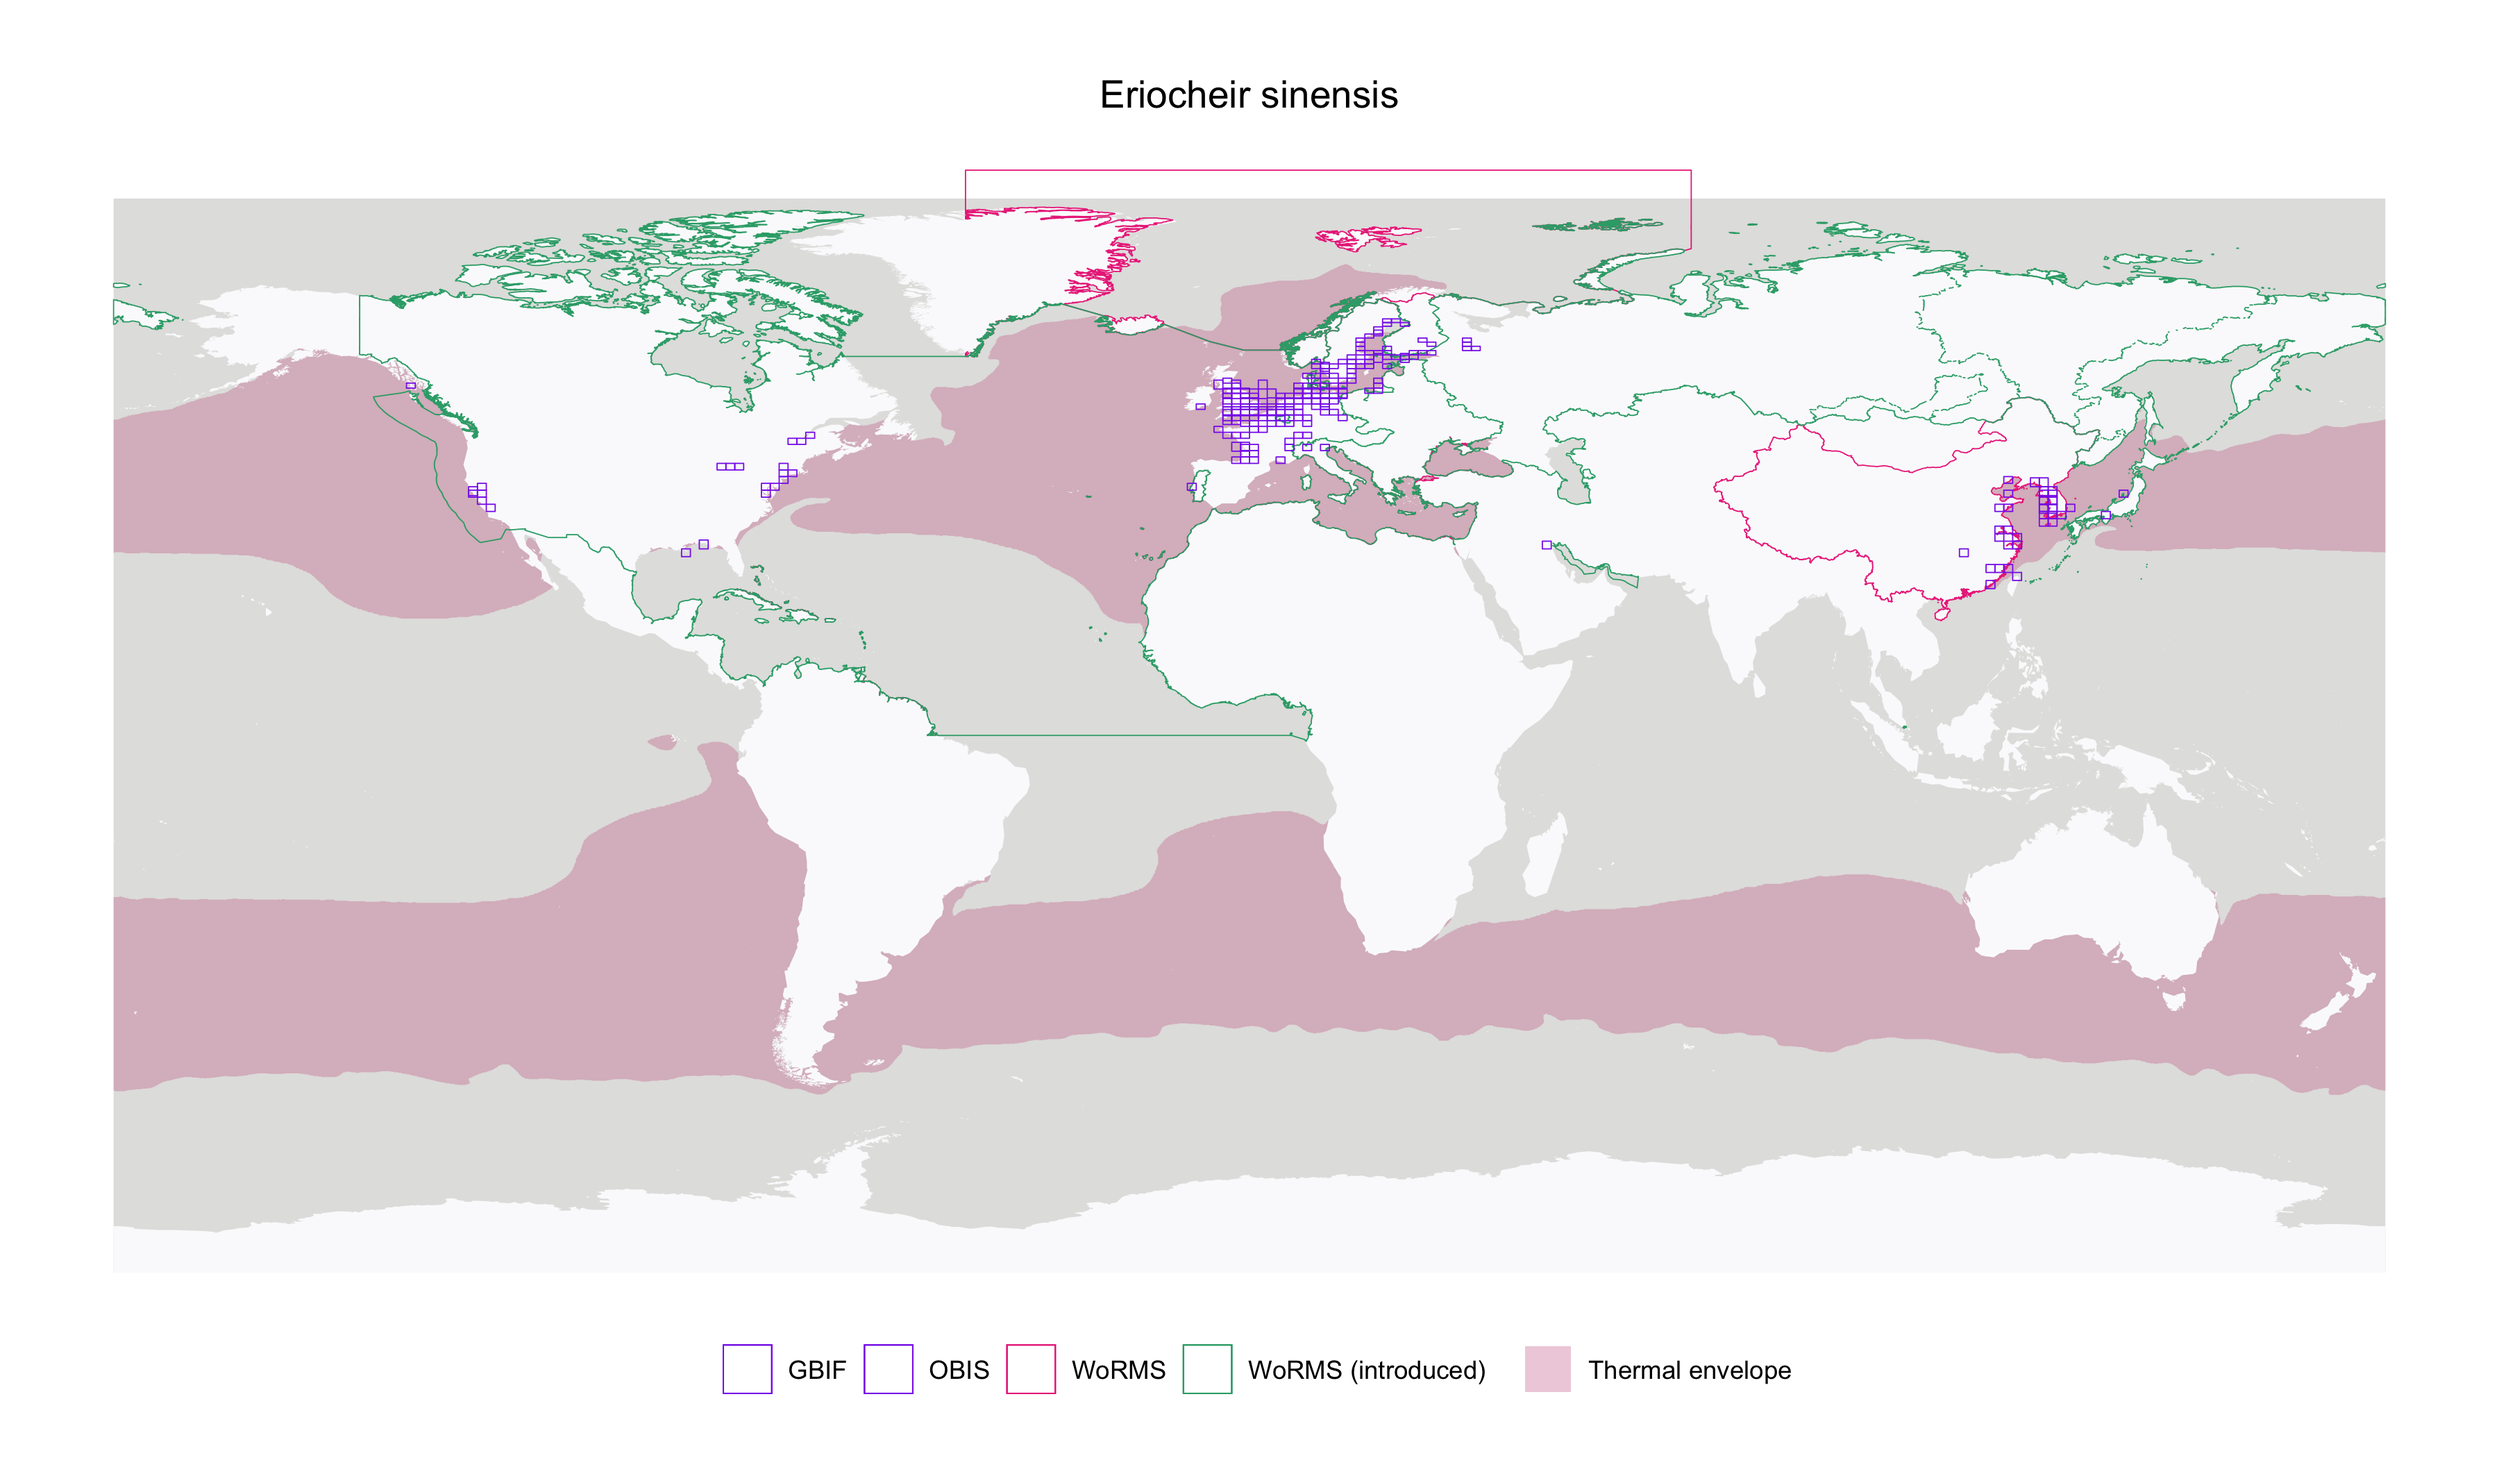
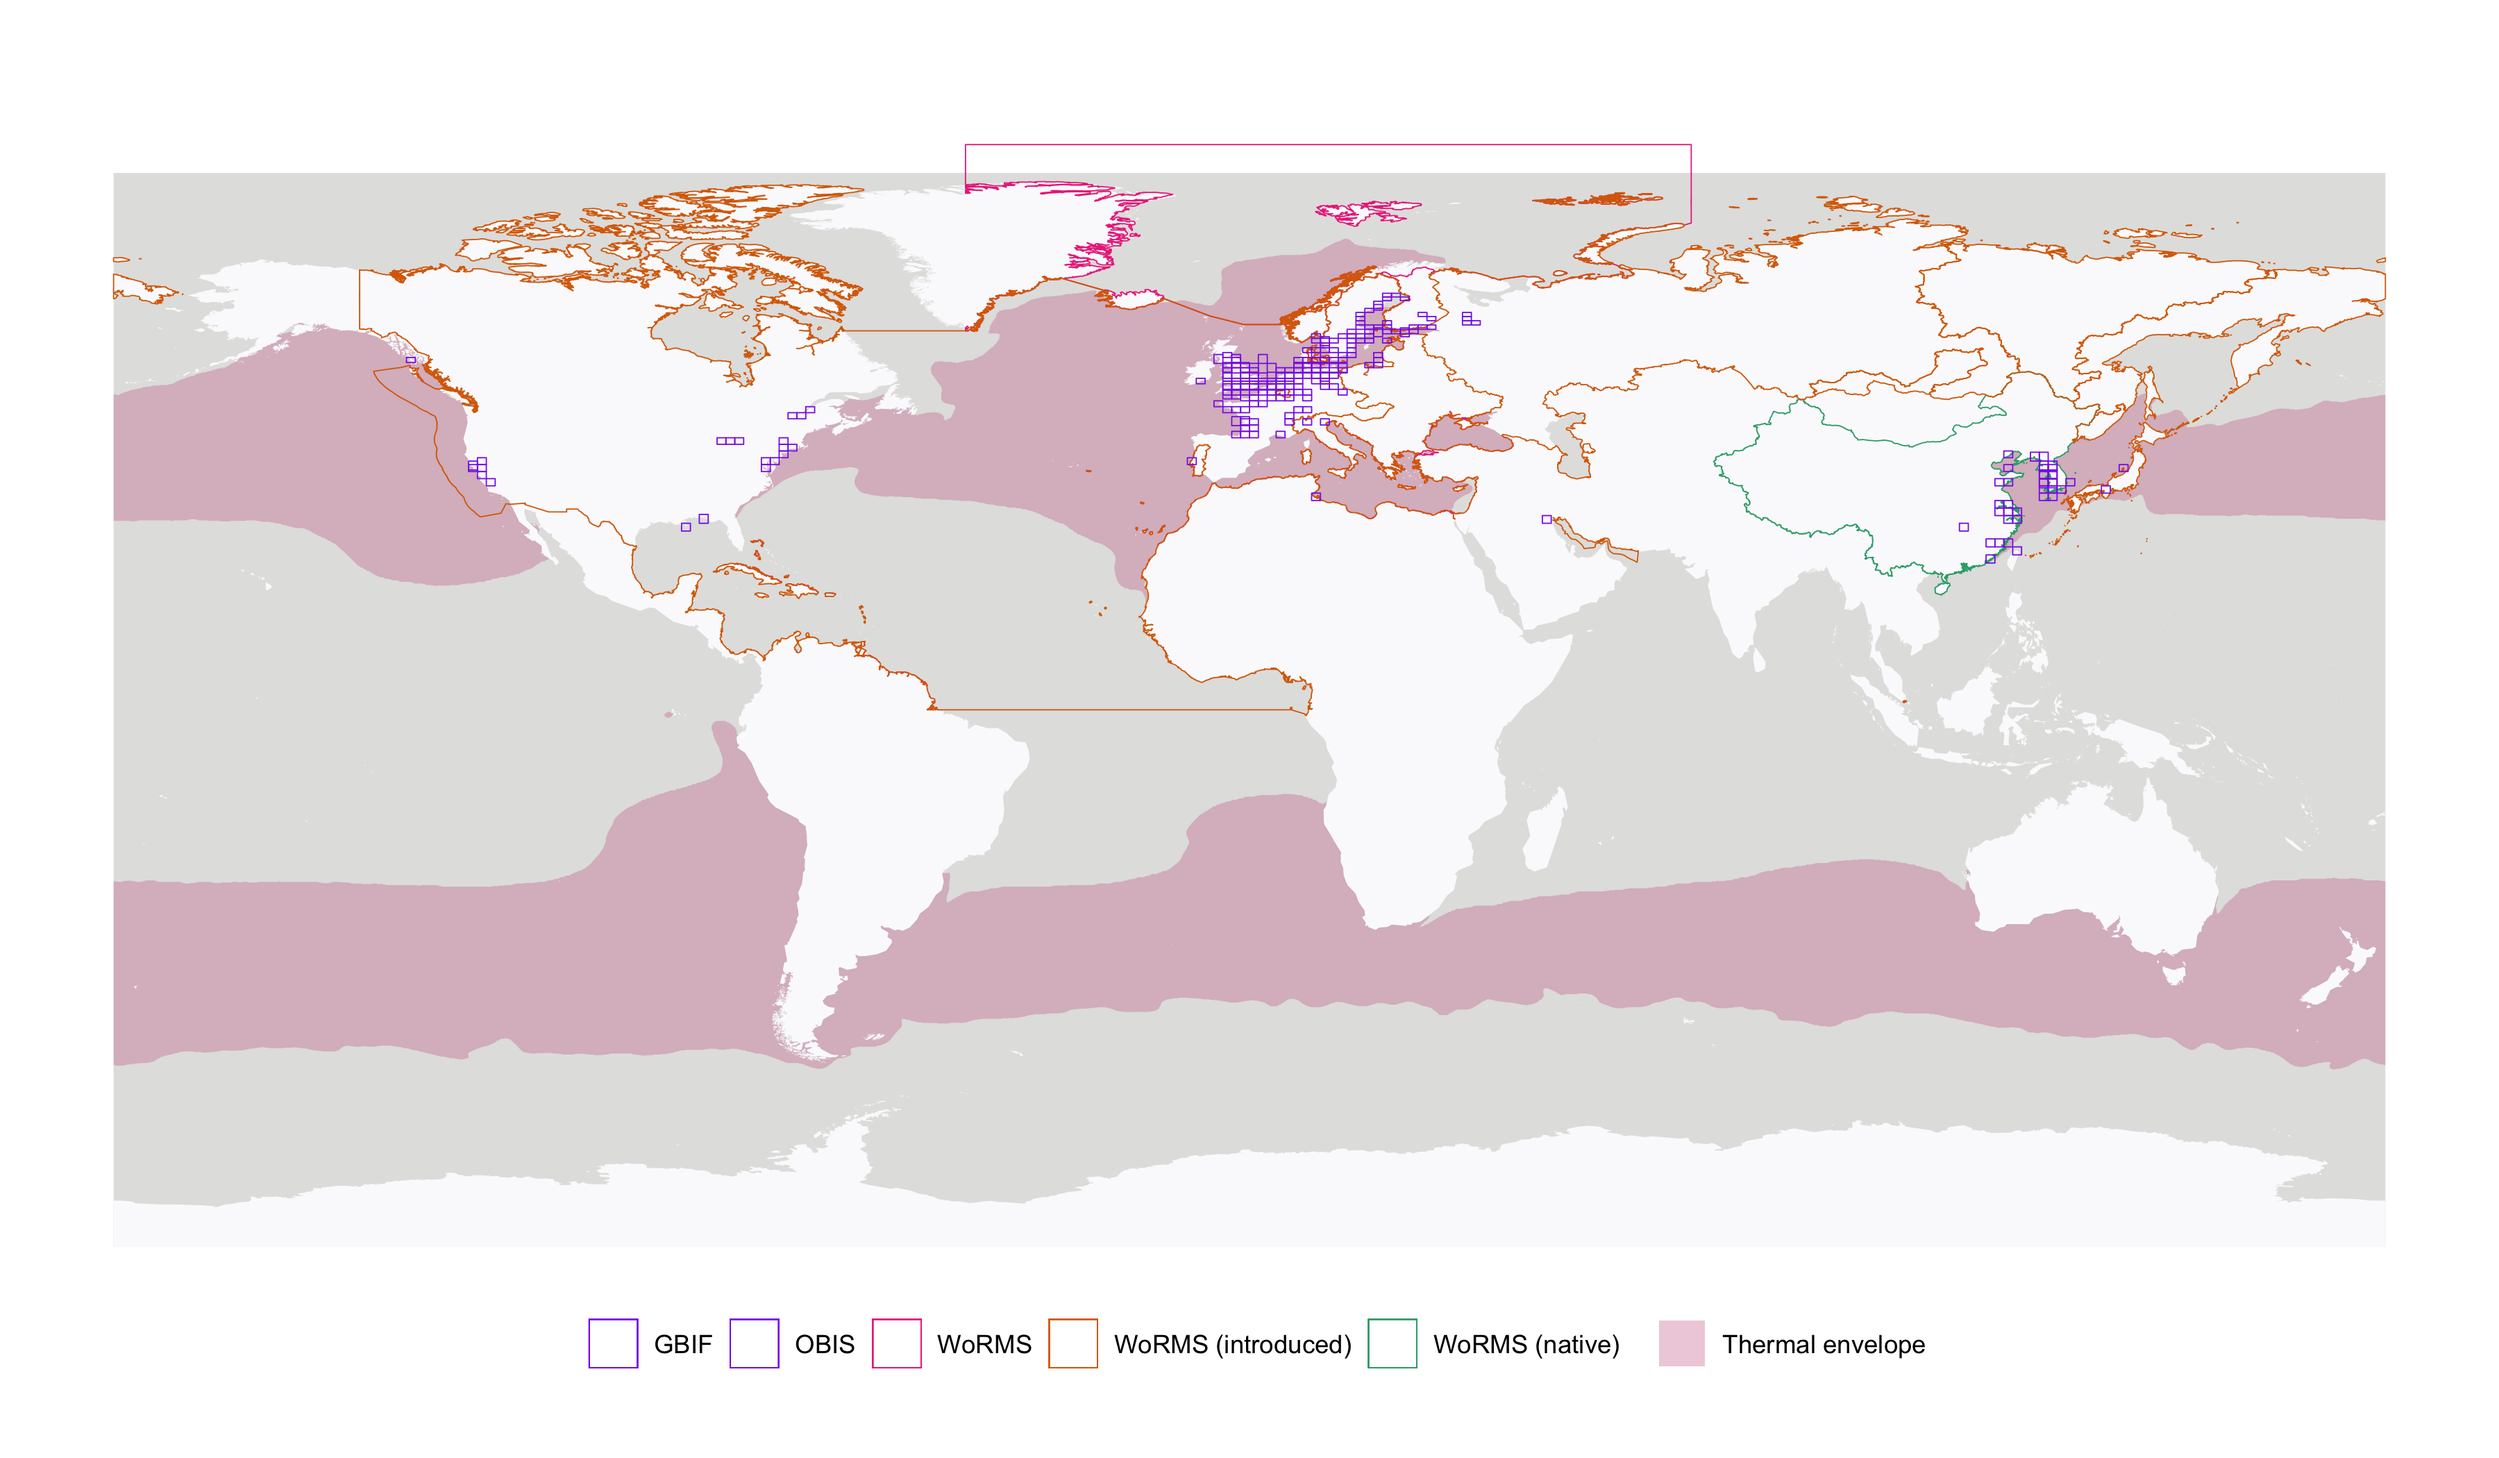
multiple changes

diff --git a/README.md b/README.md
@@ -17,7 +17,7 @@ library(speedy)
 
 scientificname <- "Didemnum perlucidum"
 didemnum <- get_dist(scientificname = scientificname)
-plot_dist(didemnum, title = scientificname)
+plot_dist(didemnum)
 ```
 
 ![](images/didemnum-1.png)<!-- -->
@@ -25,7 +25,7 @@ plot_dist(didemnum, title = scientificname)
 ``` r
 scientificname <- "Eriocheir sinensis"
 eriocheir <- get_dist(scientificname = scientificname)
-plot_dist(eriocheir, title = scientificname)
+plot_dist(eriocheir)
 ```
 
 ![](images/eriocheir-1.png)<!-- -->
@@ -43,3 +43,12 @@ plot_kd(eriocheir$envelope)
 ```
 
 ![](images/eriocheir_kde-1.png)<!-- -->
+
+## Plausibility map
+
+``` r
+pl_eriocheir <- calculate_plausibility(eriocheir)
+plot_plausibility(pl_eriocheir)
+```
+
+![](images/plausibility-1.png)<!-- -->
